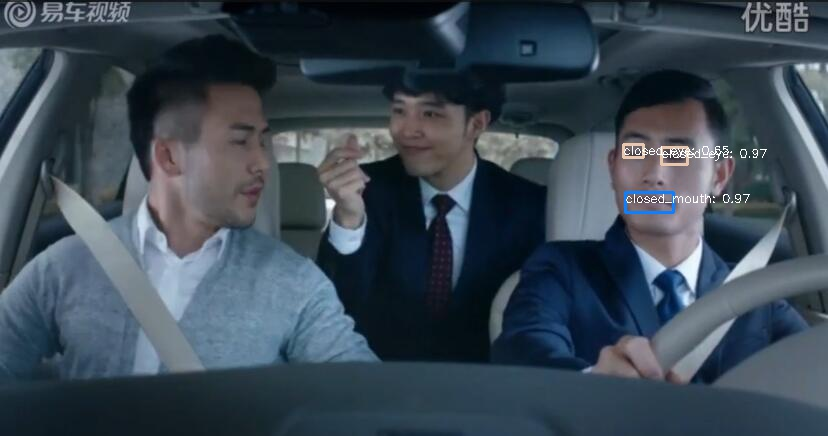
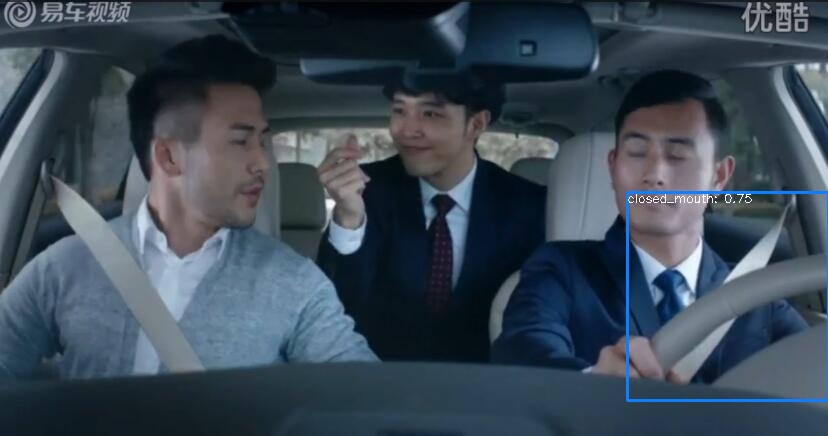
fix: use new environment

Changed region(s): [[0.7548, 0.4174, 1.0, 0.9243], [0.7246, 0.328, 0.9058, 0.3876]]

diff --git a/Test.py b/Test.py
@@ -1,9 +1,13 @@
 import torch
+# import pdb
 
 from torch.autograd import Variable
-from detection import *
-from ssd_net_vgg import *
-from voc0712 import *
+from detection import Detect
+# from ssd_net_vgg import *
+from ssd_net_vgg import SSD
+# from voc0712 import *
+from voc0712 import VOC_CLASSES
+import Config as config
 import torch.nn as nn
 import numpy as np
 import cv2
@@ -11,18 +15,19 @@ import utils
 if torch.cuda.is_available():
     torch.set_default_tensor_type('torch.cuda.FloatTensor')
 colors_tableau = [(255, 255, 255), (31, 119, 180), (174, 199, 232), (255, 127, 14), (255, 187, 120),
-                 (44, 160, 44), (152, 223, 138), (214, 39, 40), (255, 152, 150),
-                 (148, 103, 189), (197, 176, 213), (140, 86, 75), (196, 156, 148),
-                 (227, 119, 194), (247, 182, 210), (127, 127, 127), (199, 199, 199),
-                 (188, 189, 34), (219, 219, 141), (23, 190, 207), (158, 218, 229),(158, 218, 229),(158, 218, 229)]
+                  (44, 160, 44), (152, 223, 138), (214, 39, 40), (255, 152, 150),
+                  (148, 103, 189), (197, 176, 213), (140, 86, 75), (196, 156, 148),
+                  (227, 119, 194), (247, 182, 210), (127, 127, 127), (199, 199, 199),
+                  (188, 189, 34), (219, 219, 141), (23, 190, 207), (158, 218, 229), (158, 218, 229), (158, 218, 229)]
 
 net = SSD()    # initialize SSD
 net = torch.nn.DataParallel(net)
 net.train(mode=False)
-net.load_state_dict(torch.load('./weights/ssd300_VOC_100000.pth',map_location=lambda storage, loc: storage))
+# net.load_state_dict(torch.load('./weights/ssd300_VOC_100000.pth',map_location=lambda storage, loc: storage))
+net.load_state_dict(torch.load('./weights/ssd_voc_120000.pth', map_location=lambda storage, loc: storage))
 img_id = 60
-name='10'
-image = cv2.imread('./'+name+'.jpg', cv2.IMREAD_COLOR)
+name = 'test'
+image = cv2.imread('./' + name + '.jpg', cv2.IMREAD_COLOR)
 x = cv2.resize(image, (300, 300)).astype(np.float32)
 x -= (104.0, 117.0, 123.0)
 x = x.astype(np.float32)
@@ -34,17 +39,17 @@ if torch.cuda.is_available():
     xx = xx.cuda()
 y = net(xx)
 softmax = nn.Softmax(dim=-1)
- # detect = Detect(config.class_num, 0, 200, 0.01, 0.45)
-detect = Detect.apply # pytorch新版本需要这样使用
+# detect = Detect(config.class_num, 0, 200, 0.01, 0.45)
+detect = Detect.apply  # pytorch新版本需要这样使用
 priors = utils.default_prior_box()
 
-loc,conf = y
+loc, conf = y
 loc = torch.cat([o.view(o.size(0), -1) for o in loc], 1)
 conf = torch.cat([o.view(o.size(0), -1) for o in conf], 1)
 
 detections = detect(
     loc.view(loc.size(0), -1, 4),
-    softmax(conf.view(conf.size(0), -1,config.class_num)),
+    softmax(conf.view(conf.size(0), -1, config.class_num)),
     torch.cat([o.view(-1, 4) for o in priors], 0),
     config.class_num,
     200,
@@ -54,7 +59,7 @@ detections = detect(
 # detections = detect.apply
 
 labels = VOC_CLASSES
-top_k=10
+top_k = 10
 
 # plt.imshow(rgb_image)  # plot the image for matplotlib
 
@@ -62,17 +67,21 @@ top_k=10
 scale = torch.Tensor(image.shape[1::-1]).repeat(2)
 for i in range(detections.size(1)):
     j = 0
-    while detections[0,i,j,0] >= 0.4:
-        score = detections[0,i,j,0]
-        label_name = labels[i-1]
-        display_txt = '%s: %.2f'%(label_name, score)
-        pt = (detections[0,i,j,1:]*scale).cpu().numpy()
-        coords = (pt[0], pt[1]), pt[2]-pt[0]+1, pt[3]-pt[1]+1
+    while detections[0, i, j, 0] >= 0.4:
+        score = detections[0, i, j, 0]
+        label_name = labels[i - 1]
+        display_txt = '%s: %.2f' % (label_name, score)
+        pt = (detections[0, i, j, 1:] * scale).cpu().numpy()
+        rec = [int(e) for e in pt]
+        # pdb.set_trace()
+        coords = (pt[0], pt[1]), pt[2] - pt[0] + 1, pt[3] - pt[1] + 1
         color = colors_tableau[i]
-        cv2.rectangle(image,(pt[0],pt[1]), (pt[2],pt[3]), color, 2)
-        cv2.putText(image, display_txt, (int(pt[0]), int(pt[1]) + 10), cv2.FONT_HERSHEY_SIMPLEX, 0.4, (255,255,255), 1, 8)
-        j+=1
-cv2.imshow('test', image)
-cv2.waitKey(100000)
+        # cv2.rectangle(image, (pt[0], pt[1]), (pt[2], pt[3]), color, 2)
+        print(rec)
+        cv2.rectangle(img=image, rec=rec, color=color, thickness=2)
+        cv2.putText(image, display_txt, (int(pt[0]), int(pt[1]) + 10), cv2.FONT_HERSHEY_SIMPLEX, 0.4, (255, 255, 255), 1, 8)
+        j += 1
+# cv2.imshow('test', image)
+# cv2.waitKey(100000) # not implemented in headless version
 print("------end-------")
-cv2.imwrite(name+'_done.jpg',image)
+cv2.imwrite(name + '_done.jpg', image)

diff --git a/README.md b/README.md
@@ -1,5 +1,47 @@
+# 更新/Update
+> [!ATTENTION] 这个项目我很久没更新了，由于一些原因吧。最近终于有时间把自己的开发环境重新整好了。  
+> 很高兴看到还有人在关注这个项目，只有由于一些个人原因没能及时回复大家的疑问，请谅解。
+> 接下来一段时间，我会在工作之余，尽可能修复这个项目中的一些问题（主要是版本不兼容），同时我也会把我自己的项目环境放在
+> 代码仓中，如果你使用 miniconda 或者 anaconda，那么你可以直接从 `environment.yml` 导入项目的虚拟环境。
+> 即使不适用 conda，我想这个清单也可以在一定程度上帮助你配置环境。
+> 暂时我会使用 cpu 先调试项目，可以的话，后续会把 gpu 相关环境配置和方法放上来。
+
+**我的硬件配置**
+> 作为参考
+```bash
+        _,met$$$$$gg.          revan_m@Ebon-Hawk
+     ,g$$$$$$$$$$$$$$$P.       -----------------
+   ,g$$P""       """Y$$.".     OS: Debian GNU/Linux 12 (bookworm) x86_64
+  ,$$P'              `$$$.     Host: Windows Subsystem for Linux - Debian (2.4.13)
+',$$P       ,ggs.     `$$b:    Kernel: Linux 5.15.167.4-microsoft-standard-WSL2
+`d$$'     ,$P"'   .    $$$     
+ $$P      d$'     ,    $$P     
+ $$:      $$.   -    ,d$$'     Shell: zsh 5.9
+ $$;      Y$b._   _,d$P'       WM: WSLg 1.0.65 (Wayland)
+ Y$$.    `.`"Y$$$$P"'          Terminal: tmux 3.5a
+ `$$b      "-.__               CPU: 11th Gen Intel(R) Core(TM) i7-11800H (4) @ 2.30 GHz
+  `Y$$b                        GPU 1: Microsoft Basic Render Driver
+   `Y$$.                       GPU 2: Microsoft Basic Render Driver
+     `$$b.                     Memory: 740.60 MiB / 7.63 GiB (9%)
+       `Y$$b.                  Swap: 0 B / 2.00 GiB (0%)
+         `"Y$b._               
+             `""""             
+                               
+                               
+                               
+                               
+                               Battery (Microsoft Hyper-V Virtual Batte): 100% [AC Connected]
+                               Locale: zh_CN.UTF-8
+```
+啊，看起来显卡信息这里没有。我的机器其实有一个独显3060laptop，相信知道这个显卡的大概了解其性能，不再多做赘述。
+
+
 # 郑重声明：
-本项目是我在github（国内的话是gitee）的免费开源项目。如果你在某些平台（CSDN、淘宝）付费下载了该项目，烦请告知（邮箱(PengfeiM@outlook.com)）。
+本项目是我在github（国内的话是gitee）的免费开源项目。我没有授权任何平台（CSDN、淘宝）付费提供该项目。  
+This project is open-source on github and gitee.  
+No authorization to any platform to sell my project.  
+
+> [!IMPORTANT] 如果你需要论文，请直接发[邮件](PengfeiM@outlook.com)，不要提 issue，issue用来解决问题，或者提出你的想法。
 
 ## 更新说明
 针对近来很多同学反映的在新版本pytorch下程序报错：
